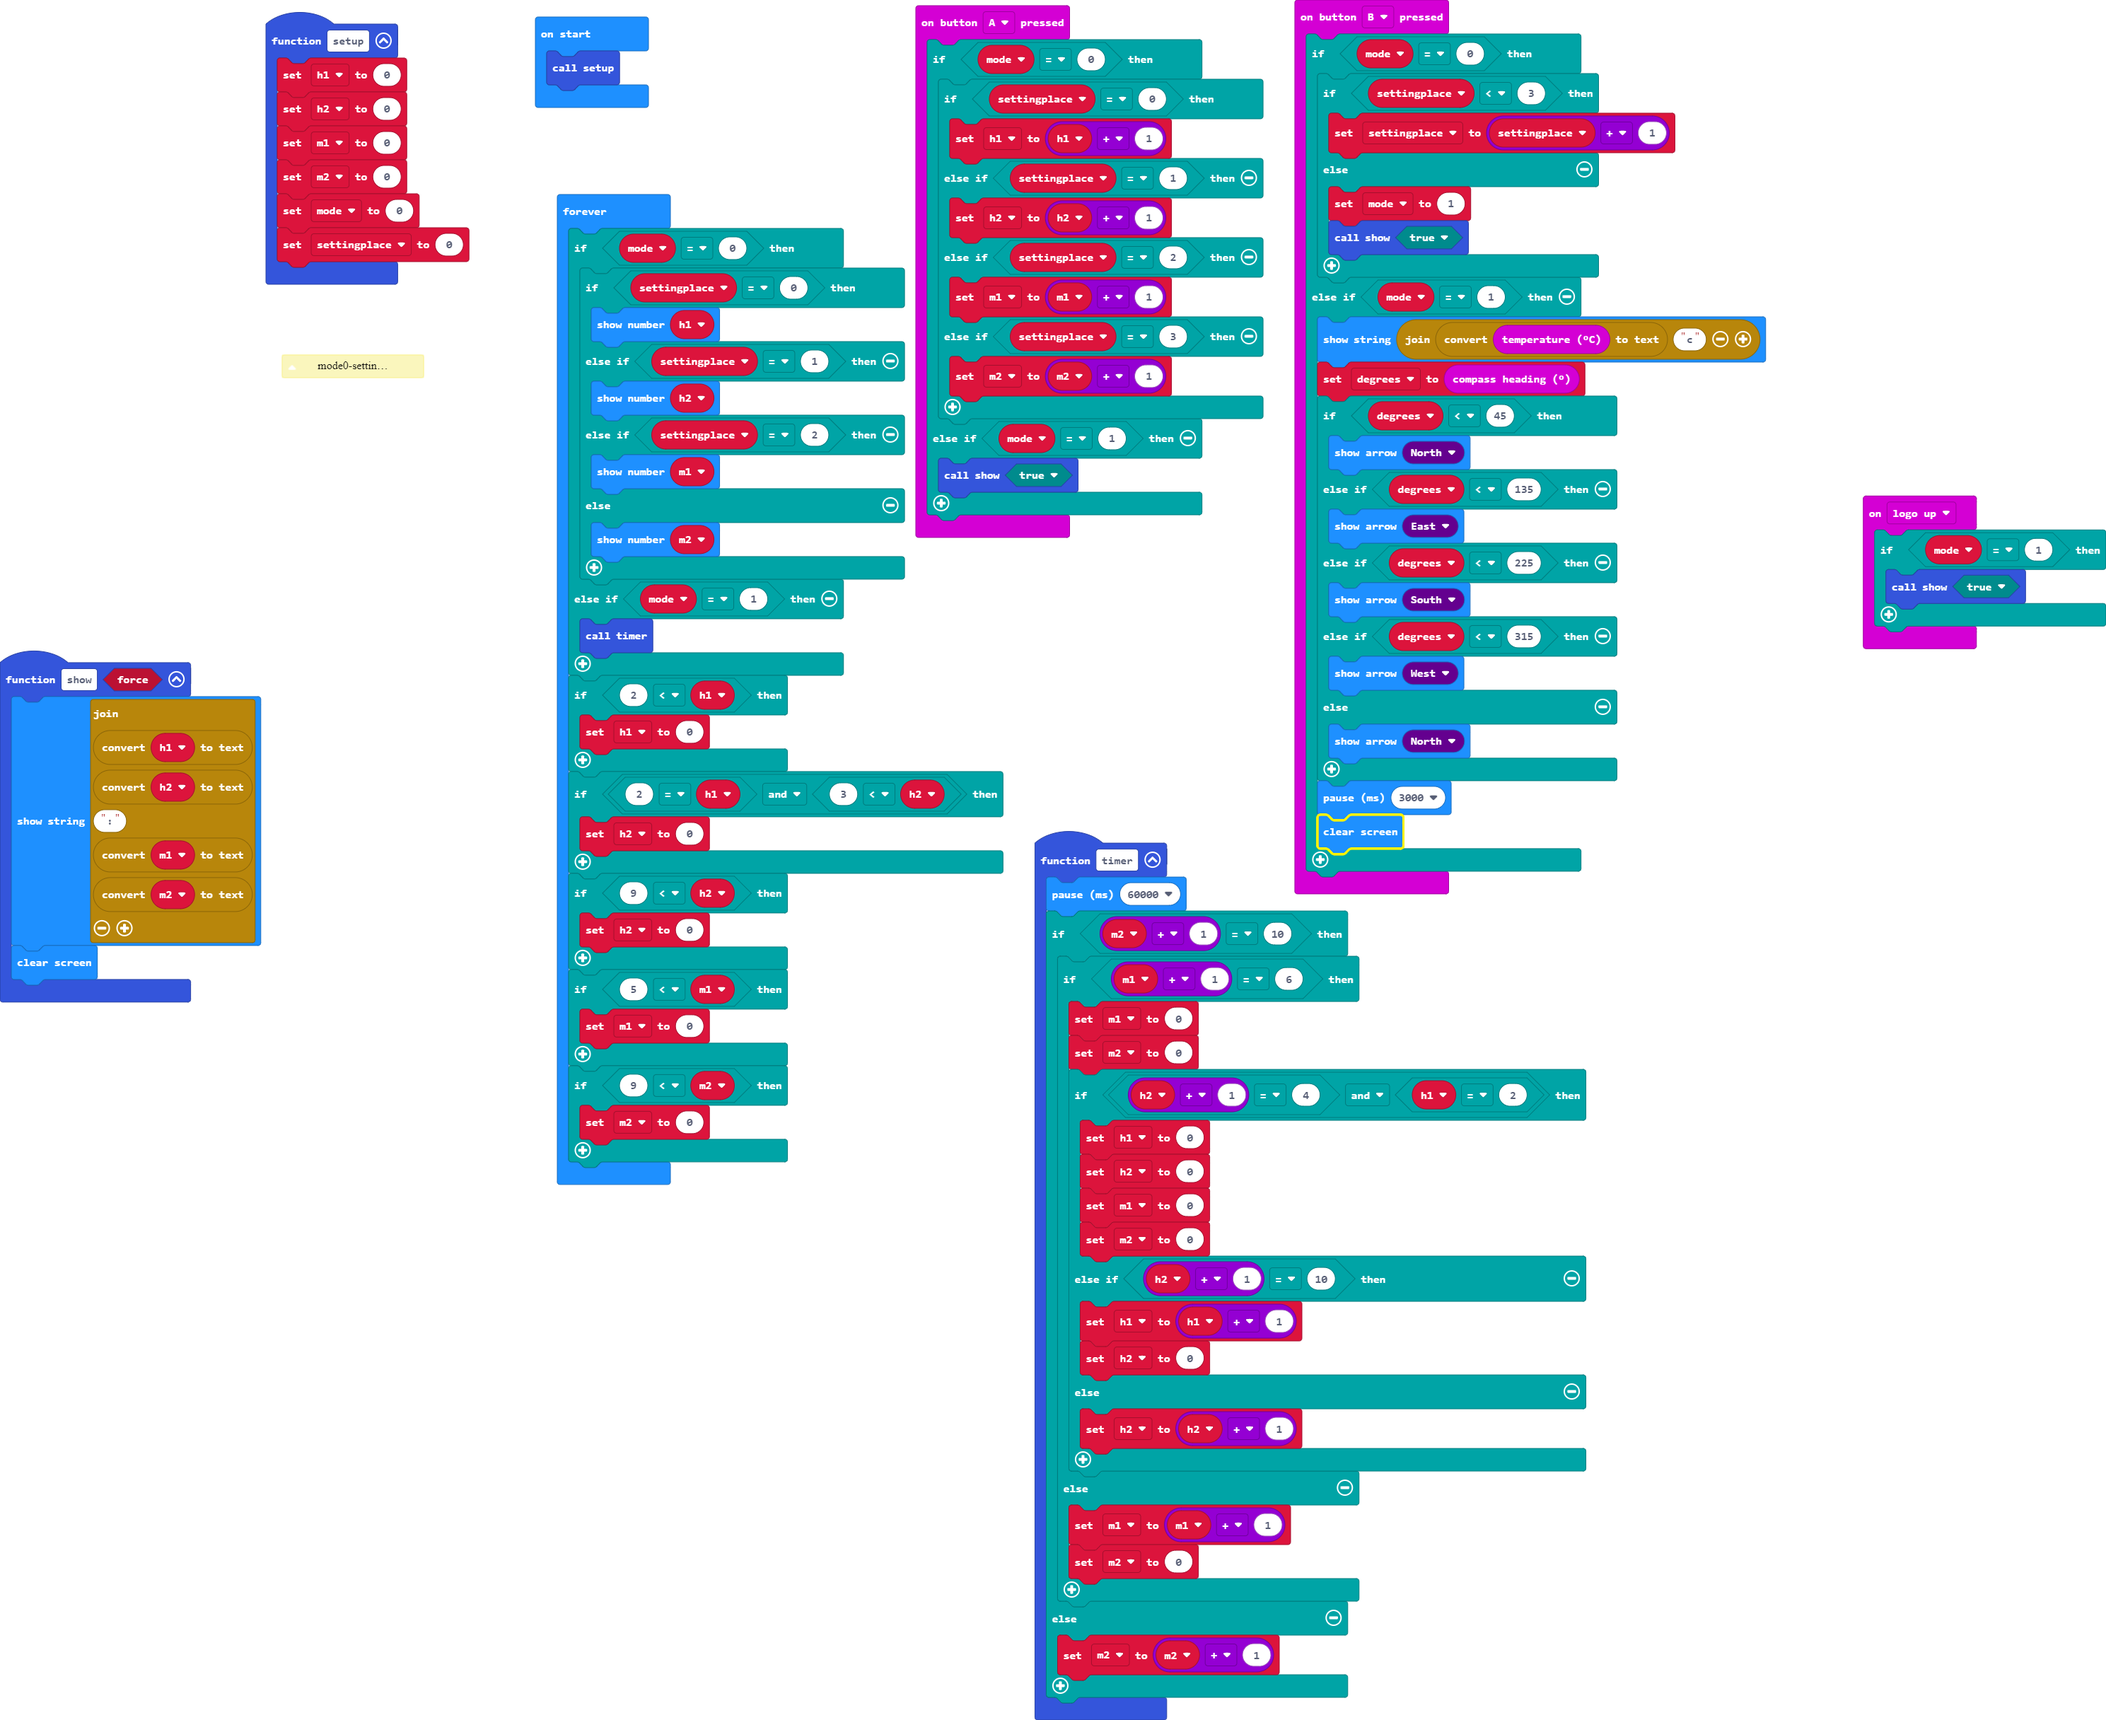
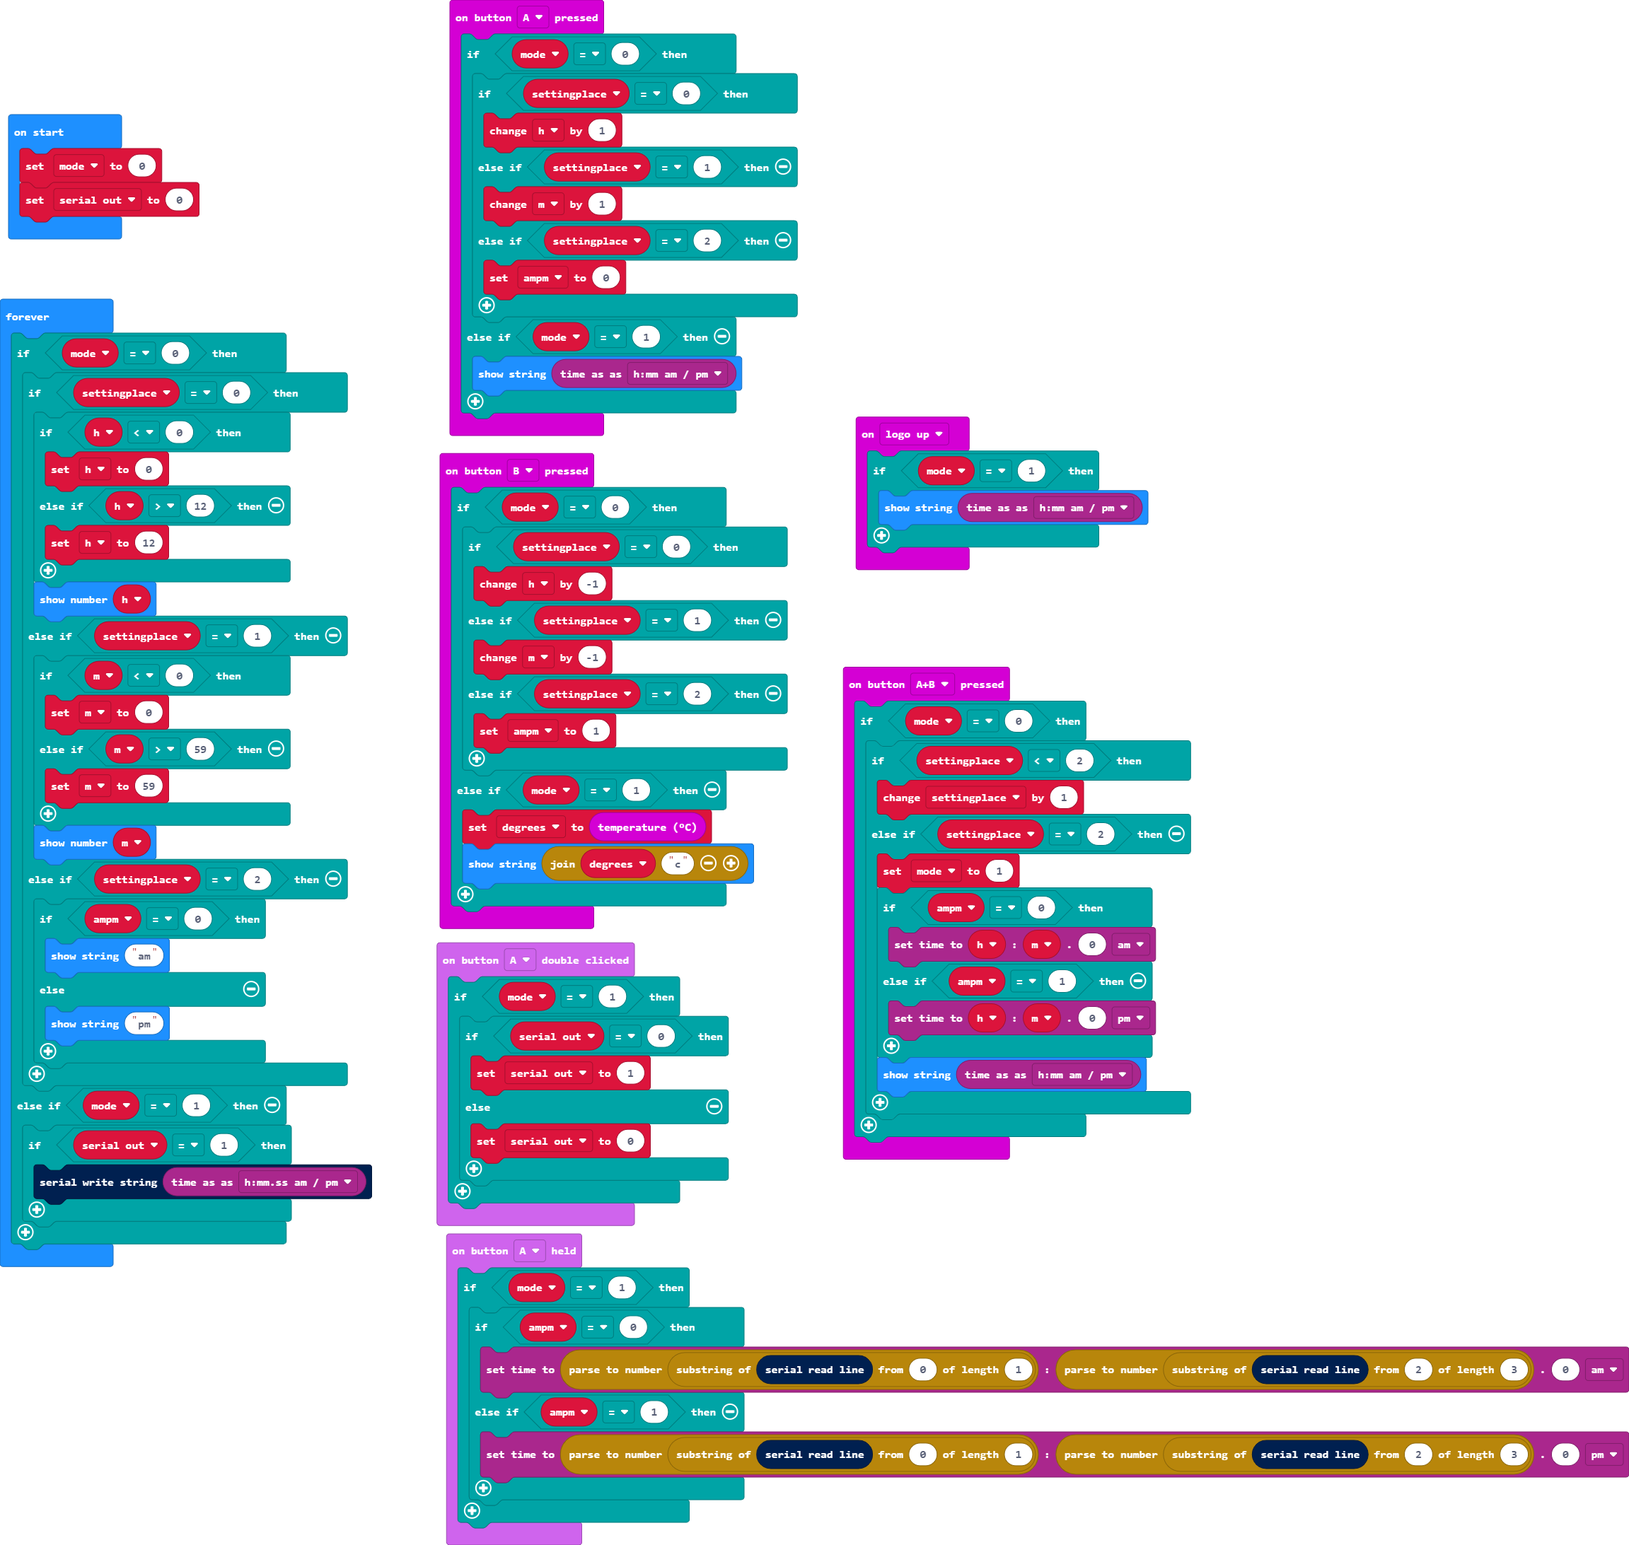
Updated with inbuilt clock extension and serial out

diff --git a/main.ts b/main.ts
@@ -1,126 +1,103 @@
-/**
- * mode0-setting mode
- * 
- * mode1-display
- */
+buttonClicks.onButtonDoubleClicked(buttonClicks.AorB.A, function () {
+    if (mode == 1) {
+        if (serial_out == 0) {
+            serial_out = 1
+        } else {
+            serial_out = 0
+        }
+    }
+})
 input.onButtonPressed(Button.A, function () {
     if (mode == 0) {
         if (settingplace == 0) {
-            h1 = h1 + 1
+            h += 1
         } else if (settingplace == 1) {
-            h2 = h2 + 1
+            m += 1
         } else if (settingplace == 2) {
-            m1 = m1 + 1
-        } else if (settingplace == 3) {
-            m2 = m2 + 1
+            ampm = 0
         }
     } else if (mode == 1) {
-        show(true)
+        basic.showString(timeanddate.time(timeanddate.TimeFormat.HMMAMPM))
     }
 })
 input.onGesture(Gesture.LogoUp, function () {
     if (mode == 1) {
-        show(true)
+        basic.showString(timeanddate.time(timeanddate.TimeFormat.HMMAMPM))
     }
 })
-function timer () {
-    basic.pause(60000)
-    if (m2 + 1 == 10) {
-        if (m1 + 1 == 6) {
-            m1 = 0
-            m2 = 0
-            if (h2 + 1 == 4 && h1 == 2) {
-                h1 = 0
-                h2 = 0
-                m1 = 0
-                m2 = 0
-            } else if (h2 + 1 == 10) {
-                h1 = h1 + 1
-                h2 = 0
-            } else {
-                h2 = h2 + 1
+input.onButtonPressed(Button.AB, function () {
+    if (mode == 0) {
+        if (settingplace < 2) {
+            settingplace += 1
+        } else if (settingplace == 2) {
+            mode = 1
+            if (ampm == 0) {
+                timeanddate.setTime(h, m, 0, timeanddate.MornNight.AM)
+            } else if (ampm == 1) {
+                timeanddate.setTime(h, m, 0, timeanddate.MornNight.PM)
             }
-        } else {
-            m1 = m1 + 1
-            m2 = 0
+            basic.showString(timeanddate.time(timeanddate.TimeFormat.HMMAMPM))
         }
-    } else {
-        m2 = m2 + 1
     }
-}
+})
 input.onButtonPressed(Button.B, function () {
     if (mode == 0) {
-        if (settingplace < 3) {
-            settingplace = settingplace + 1
-        } else {
-            mode = 1
-            show(true)
+        if (settingplace == 0) {
+            h += -1
+        } else if (settingplace == 1) {
+            m += -1
+        } else if (settingplace == 2) {
+            ampm = 1
         }
     } else if (mode == 1) {
-        basic.showString("" + convertToText(input.temperature()) + "c")
-        degrees = input.compassHeading()
-        if (degrees < 45) {
-            basic.showArrow(ArrowNames.North)
-        } else if (degrees < 135) {
-            basic.showArrow(ArrowNames.East)
-        } else if (degrees < 225) {
-            basic.showArrow(ArrowNames.South)
-        } else if (degrees < 315) {
-            basic.showArrow(ArrowNames.West)
-        } else {
-            basic.showArrow(ArrowNames.North)
-        }
-        basic.pause(3000)
-        basic.clearScreen()
+        degrees = input.temperature()
+        basic.showString("" + degrees + "c")
     }
 })
-function setup () {
-    h1 = 0
-    h2 = 0
-    m1 = 0
-    m2 = 0
-    mode = 0
-    settingplace = 0
-}
-function show (force: boolean) {
-    basic.showString("" + convertToText(h1) + convertToText(h2) + ":" + convertToText(m1) + convertToText(m2))
-    basic.clearScreen()
-}
+buttonClicks.onButtonHeld(buttonClicks.AorB.A, function () {
+    if (mode == 1) {
+        if (ampm == 0) {
+            timeanddate.setTime(parseFloat(serial.readLine().substr(0, 1)), parseFloat(serial.readLine().substr(2, 3)), 0, timeanddate.MornNight.AM)
+        } else if (ampm == 1) {
+            timeanddate.setTime(parseFloat(serial.readLine().substr(0, 1)), parseFloat(serial.readLine().substr(2, 3)), 0, timeanddate.MornNight.PM)
+        }
+    }
+})
 let degrees = 0
-let m2 = 0
-let m1 = 0
-let h2 = 0
-let h1 = 0
+let ampm = 0
+let m = 0
+let h = 0
 let settingplace = 0
+let serial_out = 0
 let mode = 0
-setup()
+mode = 0
+serial_out = 0
 basic.forever(function () {
     if (mode == 0) {
         if (settingplace == 0) {
-            basic.showNumber(h1)
+            if (h < 0) {
+                h = 0
+            } else if (h > 12) {
+                h = 12
+            }
+            basic.showNumber(h)
         } else if (settingplace == 1) {
-            basic.showNumber(h2)
+            if (m < 0) {
+                m = 0
+            } else if (m > 59) {
+                m = 59
+            }
+            basic.showNumber(m)
         } else if (settingplace == 2) {
-            basic.showNumber(m1)
-        } else {
-            basic.showNumber(m2)
+            if (ampm == 0) {
+                basic.showString("am")
+            } else {
+                basic.showString("pm")
+            }
         }
     } else if (mode == 1) {
-        timer()
-    }
-    if (2 < h1) {
-        h1 = 0
-    }
-    if (2 == h1 && 3 < h2) {
-        h2 = 0
-    }
-    if (9 < h2) {
-        h2 = 0
-    }
-    if (5 < m1) {
-        m1 = 0
-    }
-    if (9 < m2) {
-        m2 = 0
+        if (serial_out == 1) {
+            serial.writeString(timeanddate.time(timeanddate.TimeFormat.HMMSSAMPM))
+        }
     }
 })
